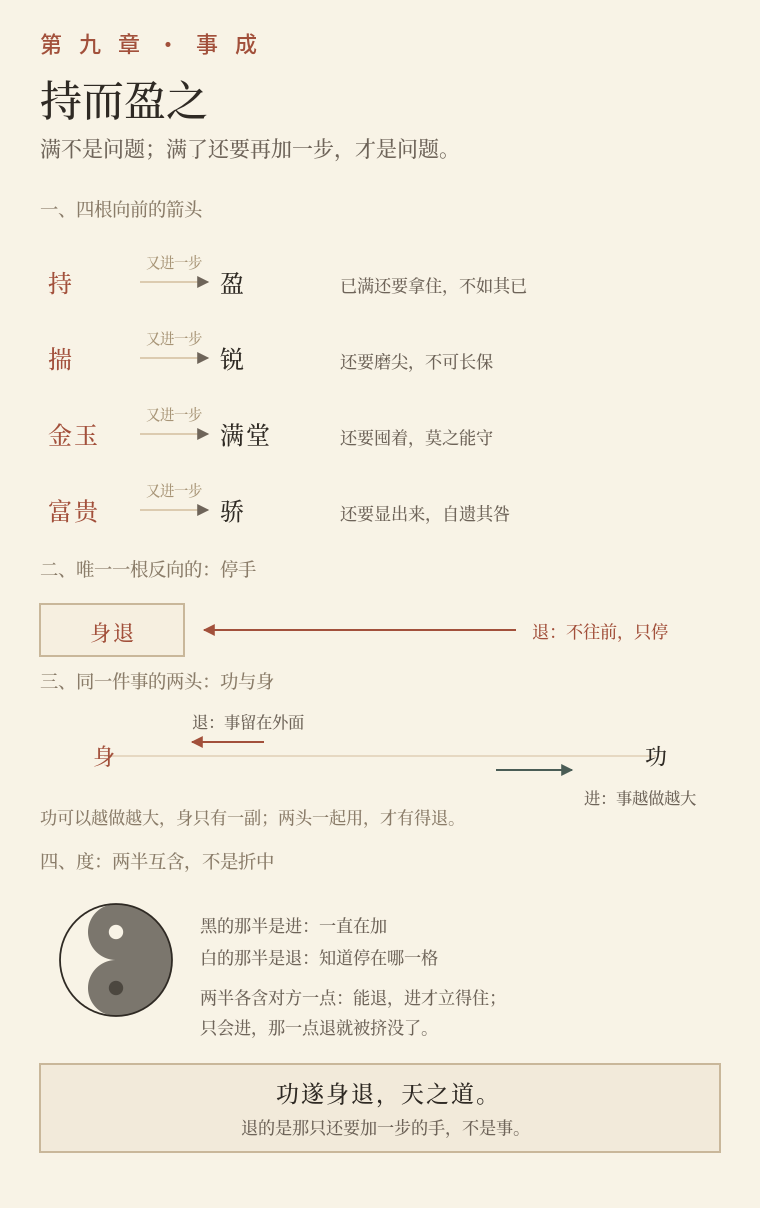
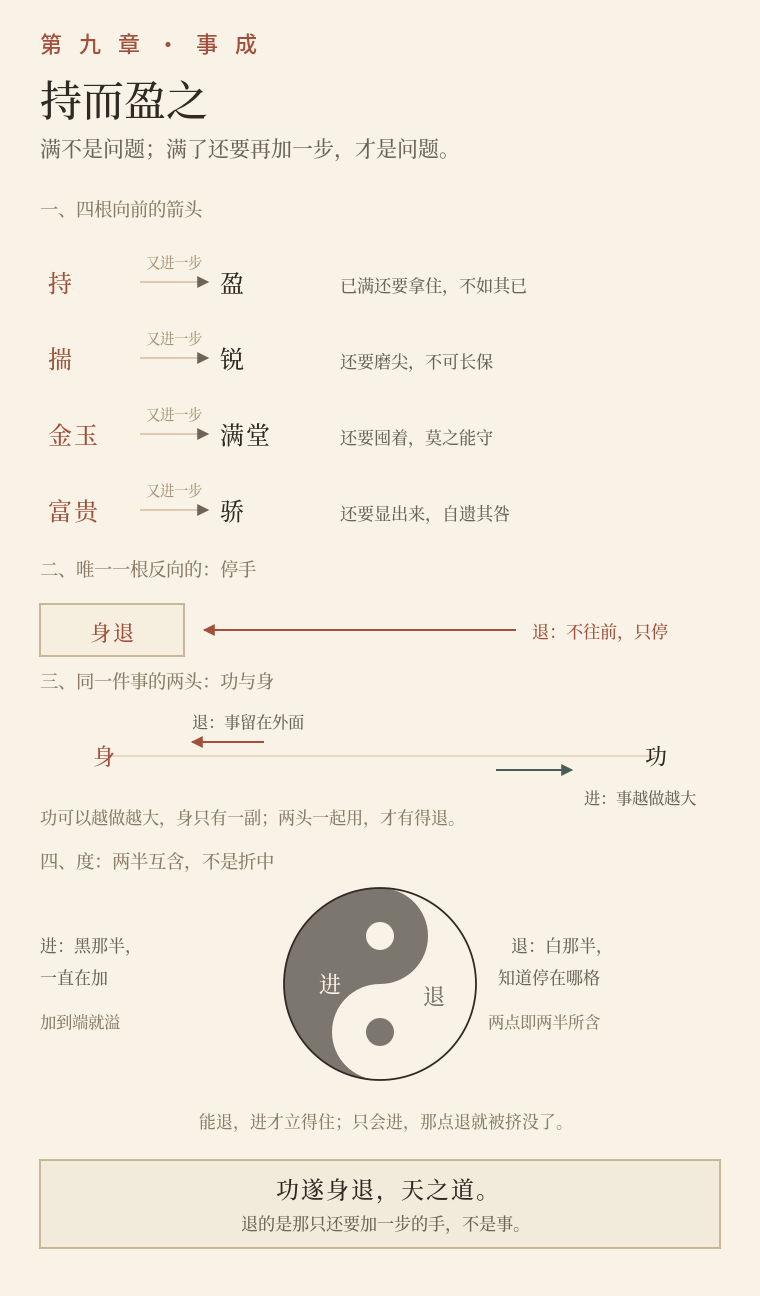
2.4.1 第九章第四段改为正版太极图（两半合成）

diff --git a/tools/make_yili_svg.py b/tools/make_yili_svg.py
@@ -382,7 +382,7 @@ def ch25_dao_fa():
 
 # ============ 第三十八章 · 五级滑落 ============
 def ch38_wu_ji():
-    W, H = 380, 604
+    W, H = 380, 652
     body, y = head(W, H, "道、德、仁、义、礼：一道五级台阶", "第 三 十 八 章 · 秩 序", "五级滑落",
                    "越往下，越靠「作意」撑；作意越重，越要强制。", H)
     s = [body]
@@ -919,7 +919,7 @@ def ch08_shang_shan():
 
 # ============ 第九章 · 持而盈之（进与退，同一根尺子） ============
 def ch09_ying_man():
-    W, H = 380, 604
+    W, H = 380, 648
     body, y = head(W, H, "一根箭头＝一步；退，是唯一不往前的一步", "第 九 章 · 事 成", "持而盈之",
                    "满不是问题；满了还要再加一步，才是问题。", H)
     s = [body]
@@ -956,20 +956,29 @@ def ch09_ying_man():
     s.append(txt(96, yaxis - 14, "退：事留在外面", 8.2, "#6E6459"))
     s.append(txt(292, yaxis + 24, "进：事越做越大", 8.2, "#6E6459"))
     s.append(txt(20, yaxis + 34, "功可以越做越大，身只有一副；两头一起用，才有得退。", 8.6, "#8A7C69"))
-    # 四、阴阳＝度
+    # 四、阴阳＝度（正版太极：两半合成）
     yc = yaxis + 56
     s.append(txt(20, yc, "四、度：两半互含，不是折中", 9.2, "#8A7C69"))
-    cx, cyy, r = 58, yc + 46, 28
-    s.append(f'<circle cx="{cx}" cy="{cyy}" r="{r}" fill="{PAPER}" stroke="{INK}" stroke-width="0.9"/>')
-    s.append(f'<path d="M {cx},{cyy-r} A {r},{r} 0 0 1 {cx},{cyy+r} A {r/2},{r/2} 0 0 1 {cx},{cyy} A {r/2},{r/2} 0 0 1 {cx},{cyy-r} Z" fill="{INK}" opacity="0.62"/>')
-    s.append(f'<circle cx="{cx}" cy="{cyy-r/2}" r="3.6" fill="{PAPER}"/>')
-    s.append(f'<circle cx="{cx}" cy="{cyy+r/2}" r="3.6" fill="{INK}" opacity="0.62"/>')
-    s.append(txt(100, cyy - 14, "黑的那半是进：一直在加", 8.6, "#6E6459"))
-    s.append(txt(100, cyy + 2, "白的那半是退：知道停在哪一格", 8.6, "#6E6459"))
-    s.append(txt(100, cyy + 22, "两半各含对方一点：能退，进才立得住；", 8.6, "#6E6459"))
-    s.append(txt(100, cyy + 37, "只会进，那一点退就被挤没了。", 8.6, "#6E6459"))
+    R, cx, cyy = 48, 190, yc + 58
+    D = "#7B766E"
+    s.append(f'<circle cx="{cx}" cy="{cyy}" r="{R}" fill="{D}"/>')
+    s.append(f'<path d="M {cx},{cyy-R} A {R},{R} 0 0 1 {cx},{cyy+R} L {cx},{cyy-R} Z" fill="{PAPER}"/>')
+    s.append(f'<circle cx="{cx}" cy="{cyy-R/2}" r="{R/2}" fill="{D}"/>')
+    s.append(f'<circle cx="{cx}" cy="{cyy+R/2}" r="{R/2}" fill="{PAPER}"/>')
+    s.append(f'<circle cx="{cx}" cy="{cyy}" r="{R}" fill="none" stroke="{INK}" stroke-width="0.9"/>')
+    s.append(f'<circle cx="{cx}" cy="{cyy-R/2}" r="7" fill="{PAPER}"/>')
+    s.append(f'<circle cx="{cx}" cy="{cyy+R/2}" r="7" fill="{D}"/>')
+    s.append(txt(cx - 25, cyy + 4, "进", 11, PAPER, "middle", spacing="1"))
+    s.append(txt(cx + 27, cyy + 10, "退", 11, D, "middle", spacing="1"))
+    s.append(txt(20, cyy - 16, "进：黑那半，", 8.5, "#6E6459"))
+    s.append(txt(20, cyy, "一直在加", 8.5, "#6E6459"))
+    s.append(txt(20, cyy + 22, "加到端就溢", 8.2, "#8A7C69"))
+    s.append(txt(300, cyy - 16, "退：白那半，", 8.5, "#6E6459", "end"))
+    s.append(txt(300, cyy, "知道停在哪格", 8.5, "#6E6459", "end"))
+    s.append(txt(300, cyy + 22, "两点即两半所含", 8.2, "#8A7C69", "end"))
+    s.append(txt(cx, cyy + R + 24, "能退，进才立得住；只会进，那点退就被挤没了。", 8.4, "#8A7C69", "middle"))
     # 收
-    yf = cyy + 52
+    yf = cyy + R + 40
     s.append(box(20, yf, 340, 44, fill="#F2EADA", stroke="#C9B79A"))
     s.append(txt(190, yf + 19, "功遂身退，天之道。", 11.5, INK, "middle", spacing="1"))
     s.append(txt(190, yf + 35, "退的是那只还要加一步的手，不是事。", 8.6, "#6E6459", "middle"))

diff --git a/book/义理图-体例.md b/book/义理图-体例.md
@@ -57,7 +57,7 @@
 | 六 | ch06-gu-shen | 谷神不死 | 谷（凹陷）、门（出入）、绵绵一线三级，末注神非人格神 |
 | 七 | ch07-bu-zi-sheng | 不自生 | 天地与圣人两栏对账，下压「若先退一步等赚回来即权谋」 |
 | 八 | ch08-shang-shan | 上善若水 | 水绕石往下、三理由、七善两列，收「不争故无尤」 |
-| 九 | ch09-ying-man | 持而盈之 | 四段合读：①四根向前箭头（又进一步）②唯一反向箭头（停手）③功／身两向对轴（退＝事留在外面，人不必退场）④阴阳两半互含＝度。收「度不是折中，是知道在哪一格停手」。参考子虔版第 42 页三竖列＋太极＋身功轴，只取其「箭头＝一步」「两向」读法 |
+| 九 | ch09-ying-man | 持而盈之 | 四段合读：①四根向前箭头（又进一步）②唯一反向箭头（停手）③功／身两向对轴（退＝事留在外面，人不必退场）④正版太极图（两半合成、各有鱼眼，黑＝进、白＝退）＝度。收「能退，进才立得住；只会进，那点退就被挤没了」。参考子虔版第 42 页三竖列＋太极＋身功轴，只取其「箭头＝一步」「两向」「互含」读法；太极画法按两半合成（实色填充，不用半透明叠加） |
 | 十 | ch10-bao-yi | 载营魄抱一 | 六问逐条，下分「对内主人／对外租客」两栏，收玄德 |
 | 十一 | ch11-li-yong | 利与用 | 三容器并置，各标「有·立界／无·让位」，收「有之以为利，无之以为用」 |
 | 二十二 | ch22-qu-ze-quan | 曲则全 | 六截面分形、量两截，下接抱一、四不四果，收「诚全而归之」 |
